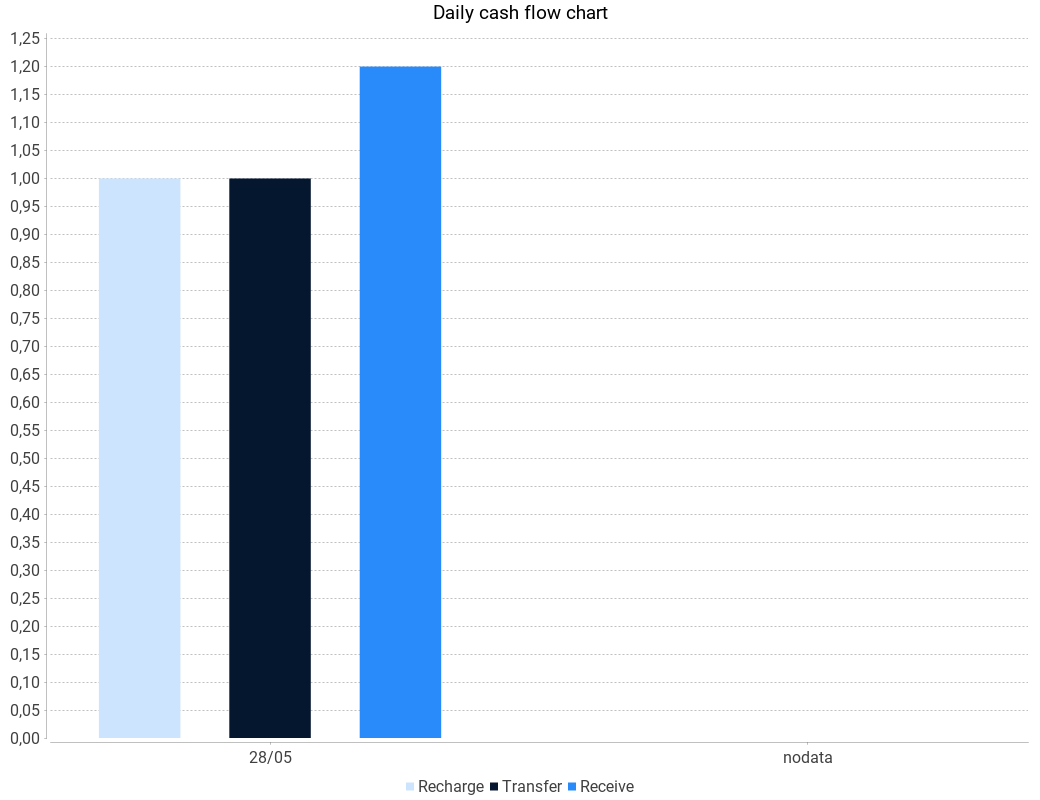
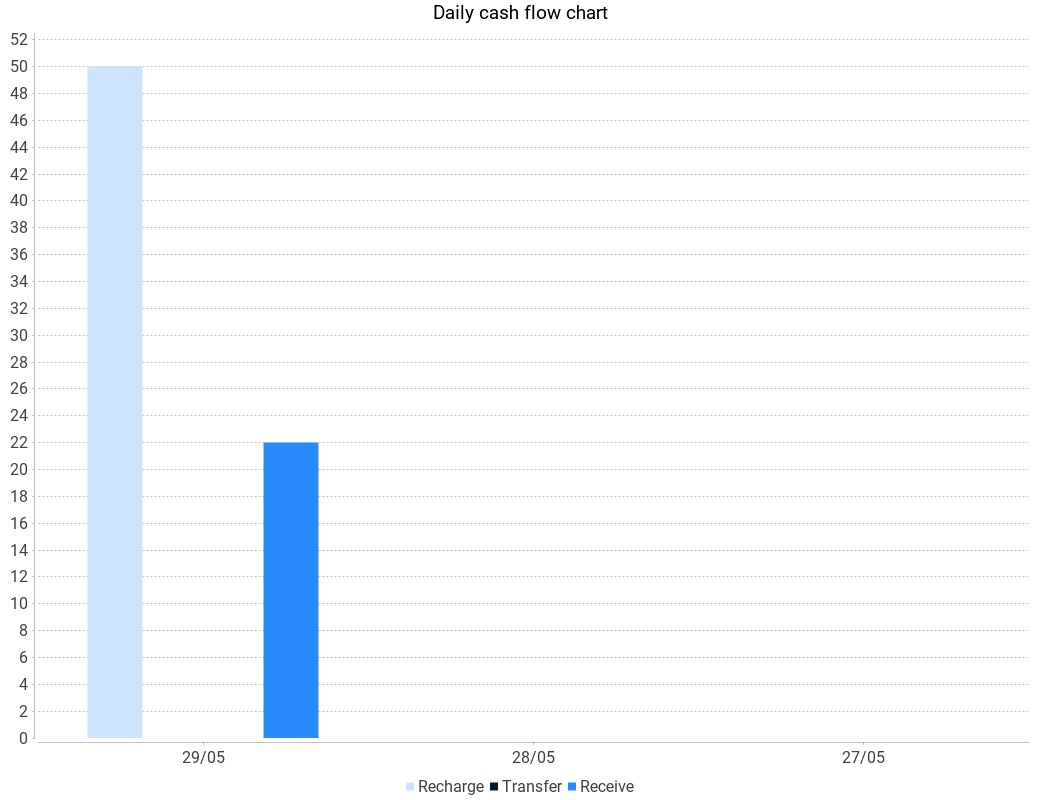
Fix statistical bug data

diff --git a/src/daos/StatisticalDao.java b/src/daos/StatisticalDao.java
@@ -6,7 +6,11 @@ import java.sql.Connection;
 import java.sql.PreparedStatement;
 import java.sql.ResultSet;
 import java.util.ArrayList;
+import java.util.HashMap;
+import java.util.Map;
+
 import connection.dbConnector;
+import utils.timestamp;
 
 /**
  * @author zoohuy
@@ -18,35 +22,45 @@ public class StatisticalDao {
 	}
 	
 	public ArrayList<double[]> readCount(String usernameInput) {
-		ArrayList<double[]> result = new ArrayList<double[]>();
-		try {
-			Connection con = dbConnector.getConnection();
-			String sql = "SELECT COUNT(type) 'count', SUM(amount) 'sum' FROM transactionhistories " +
-						 "WHERE username=? AND type IN ('receive', 'recharge', 'transfer') " +
-						 "GROUP BY type ORDER BY type";
-			PreparedStatement pst = con.prepareStatement(sql);
-			pst.setString(1, usernameInput);
-			ResultSet rs = pst.executeQuery();
-			while (rs.next()) {
-				double[] arr = { 0, 0 };
-				arr[0] = rs.getDouble("count");
-				arr[1] = rs.getDouble("sum");
-				result.add(arr);
-			}
-			for (int i = 3; i > result.size(); --i) {
-				double[] arr = { 0, 0 };
-				result.add(arr);
-			}
-			System.out.println("[Query] ->: " + sql);
-			dbConnector.closeConnection(con);
-		} catch (Exception e) {
-			e.printStackTrace();
-		}
-		return result;
+	    Map<String, double[]> result = new HashMap<>();
+	    result.put("receive", new double[] {0, 0});
+	    result.put("recharge", new double[] {0, 0});
+	    result.put("transfer", new double[] {0, 0});
+
+	    try (Connection con = dbConnector.getConnection();
+	         PreparedStatement pst = con.prepareStatement(
+	             "SELECT type, COUNT(type) 'count', SUM(amount) 'sum' " +
+	             "FROM transactionhistories " +
+	             "WHERE username=? AND type IN ('receive', 'recharge', 'transfer') " +
+	             "GROUP BY type ORDER BY type"
+	         )) {
+
+	        pst.setString(1, usernameInput);
+	        ResultSet rs = pst.executeQuery();
+
+	        while (rs.next()) {
+	            String type = rs.getString("type");
+	            result.get(type)[0] = rs.getDouble("count");
+	            result.get(type)[1] = rs.getDouble("sum");
+	        }
+	        System.out.println("[Query] ->: " + pst);
+
+	    } catch (Exception e) {
+	        e.printStackTrace();
+	    }
+	    ArrayList<double[]> resultList = new ArrayList<>();
+	    resultList.add(result.get("receive"));
+	    resultList.add(result.get("recharge"));
+	    resultList.add(result.get("transfer"));
+	    return resultList;
 	}
+
 
 	public ArrayList<String[]> readChartData(String usernameInput) {
 		ArrayList<String[]> result = new ArrayList<String[]>();
+		for (int i = 0; i < 3; ++i) {
+			result.add(new String[] { timestamp.getDayAfter(i), "0", "0", "0" });
+		}
 		try {
 			Connection con = dbConnector.getConnection();
 			String sql = "SELECT DATE_FORMAT(STR_TO_DATE(SUBSTRING_INDEX(`time`, ' - ', 1), '%d/%m/%Y'), '%d/%m') 'monthtime', " +
@@ -55,22 +69,18 @@ public class StatisticalDao {
 						 "SUM(CASE WHEN type = 'receive' THEN amount ELSE 0 END) 'receive' " +
 						 "FROM transactionhistories WHERE STR_TO_DATE(SUBSTRING_INDEX(`time`, ' - ', 1), '%d/%m/%Y') " +
 						 "IN (SELECT DISTINCT STR_TO_DATE(SUBSTRING_INDEX(`time`, ' - ', 1), '%d/%m/%Y') 'day' " +
-						 "FROM transactionhistories WHERE `time` LIKE '%05/2024%' ORDER BY day DESC) AND username=? " +
+						 "FROM transactionhistories WHERE `time` LIKE '%" + timestamp.getMonthTime() + "%' ORDER BY day DESC) AND username=? " +
 						 "GROUP BY monthtime ORDER BY monthtime DESC LIMIT 3";
 			PreparedStatement pst = con.prepareStatement(sql);
 			pst.setString(1, usernameInput);
 			ResultSet rs = pst.executeQuery();
+			int index = 0;
 			while (rs.next()) {
-				String[] arr = { "nodata", "0", "0", "0" };
-				arr[0] = rs.getString("monthtime");
-				arr[1] = rs.getString("recharge");
-				arr[2] = rs.getString("transfer");
-				arr[3] = rs.getString("receive");
-				result.add(arr);
-			}
-			for (int i = 3; i > result.size(); --i) {
-				String[] arr = { "nodata", "0", "0", "0" };
-				result.add(arr);
+				result.get(index)[0] = rs.getString("monthtime");
+                result.get(index)[1] = rs.getString("recharge");
+                result.get(index)[2] = rs.getString("transfer");
+                result.get(index)[3] = rs.getString("receive");
+                ++index;
 			}
 			System.out.println("[Query] ->: " + sql);
 			dbConnector.closeConnection(con);

diff --git a/src/views/panels/pnUIBottom.java b/src/views/panels/pnUIBottom.java
@@ -238,7 +238,8 @@ public class pnUIBottom extends JPanel {
 			} catch (Exception ex) {
 				ex.printStackTrace();
 			}
-			if (!validator.validateBlankLength(receiverUsernameTF)) toast.showMsg("Warning", "Username can't be blank and min 6 characters", "warning");
+			if (!validator.validateBlankLength(receiverUsernameTF)) toast.showMsg("Warning", "Receive username can't be blank and min 6 characters", "warning");
+			else if (receiverUsername.equals(transferUsername)) toast.showMsg("Warning", "Can't be transfer for youself", "warning");
 			else if (!validator.validateBlank(amoutnTF) || !validator.validateBalance(amoutnTF)) toast.showMsg("Warning", "Amount can't be blank and must be number", "warning");
 			else if (amount == 0) toast.showMsg("Error", "Amount can't be 0", "error");
 			else if (amount > transferUser.getBalance()) toast.showMsg("Error", "Insufficient balance", "error");
@@ -534,7 +535,9 @@ public class pnUIBottom extends JPanel {
 					ArrayList<String[]> dataChart = (ArrayList<String[]>) inObj.readObject();
 					SwingUtilities.invokeLater(() -> {
 						double totalTransaction = 0;
-						for (double[] arr : dataDSHB) { totalTransaction += arr[0]; }
+						for (double[] arr : dataDSHB) {
+							totalTransaction += arr[0];
+						}
 						DSHBLB1.setText("<html><p style='text-align: center; font-size: 16px; margin-top: 4px'>Total transactions<br>"
 								+ "<b style='color: "+variables.primaryColor+"'>"+
 								(totalTransaction+"").substring(0, (totalTransaction+"").indexOf("."))

diff --git a/src/utils/generateColumnChart.java b/src/utils/generateColumnChart.java
@@ -53,9 +53,9 @@ public class generateColumnChart extends JPanel {
         for (int i = 0; i < count; ++i) {
         	String[] arr = (String[]) dataChart.get(i);
         	String date = arr[0];
-        	double rechargeSum = Double.parseDouble((arr[1].isEmpty()) ? "0" : arr[1]);
-            double receiveSum = Double.parseDouble((arr[3].isEmpty()) ? "0" : arr[3]);
-            double transferSum = Double.parseDouble((arr[2].isEmpty()) ? "0" : arr[2]);
+        	double rechargeSum = Double.parseDouble(arr[1]);
+            double receiveSum = Double.parseDouble(arr[3]);
+            double transferSum = Double.parseDouble(arr[2]);
             dataset.addValue(rechargeSum, "Recharge", date);
             dataset.addValue(transferSum, "Transfer", date);
             dataset.addValue(receiveSum, "Receive", date);

diff --git a/src/utils/timestamp.java b/src/utils/timestamp.java
@@ -22,4 +22,16 @@ public class timestamp {
 		String time = new SimpleDateFormat("dd/MM/yyyy - HH:mm:ss").format(new Date(millis));
 		return time;
 	}
+	
+	public static String getDayAfter(int dayAfter) {
+		long millis = System.currentTimeMillis() - (86400*1000*dayAfter);
+		String time = new SimpleDateFormat("dd/MM").format(new Date(millis));
+		return time;
+	}
+	
+	public static String getMonthTime() {
+		long millis = System.currentTimeMillis();
+		String time = new SimpleDateFormat("MM/yyyy").format(new Date(millis));
+		return time;
+	}
 }

diff --git a/README.md b/README.md
@@ -3,7 +3,7 @@ Final project in Java and Base project I for ATM simulation.
 
 ## 📍 Features
 - Multithreading
-- Login, register (authentication with Google 2FA, REGEX check)
+- Login, register (authentication with Google 2FA)
 - Recharge, transfer money
 - Real time transaction histories search
 - Change PIN
